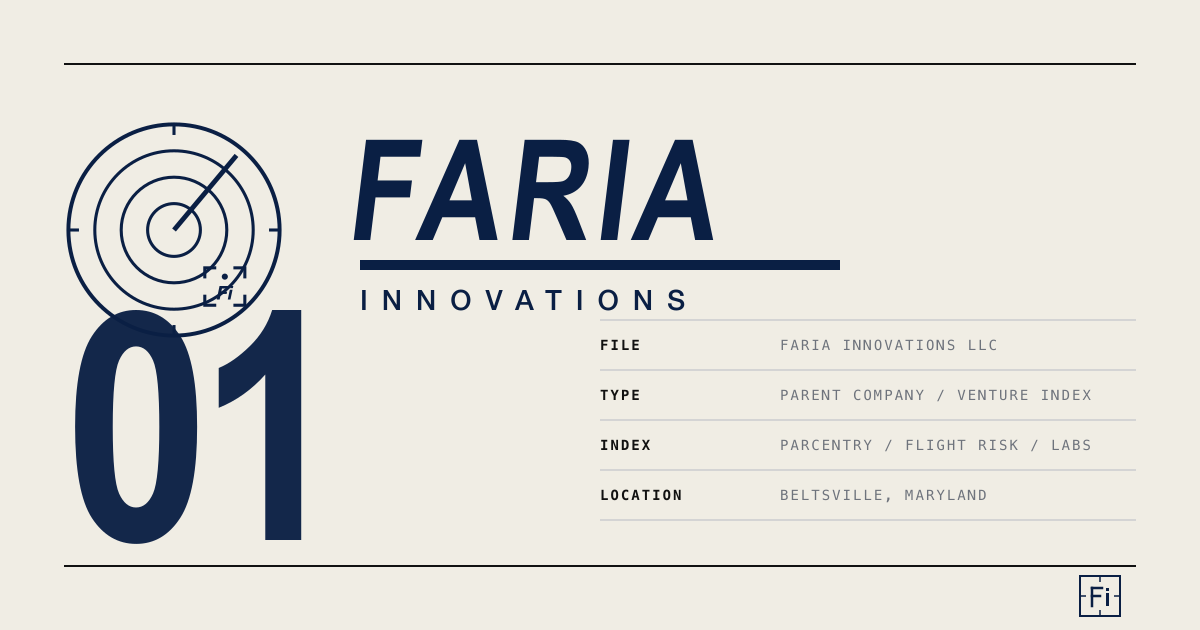
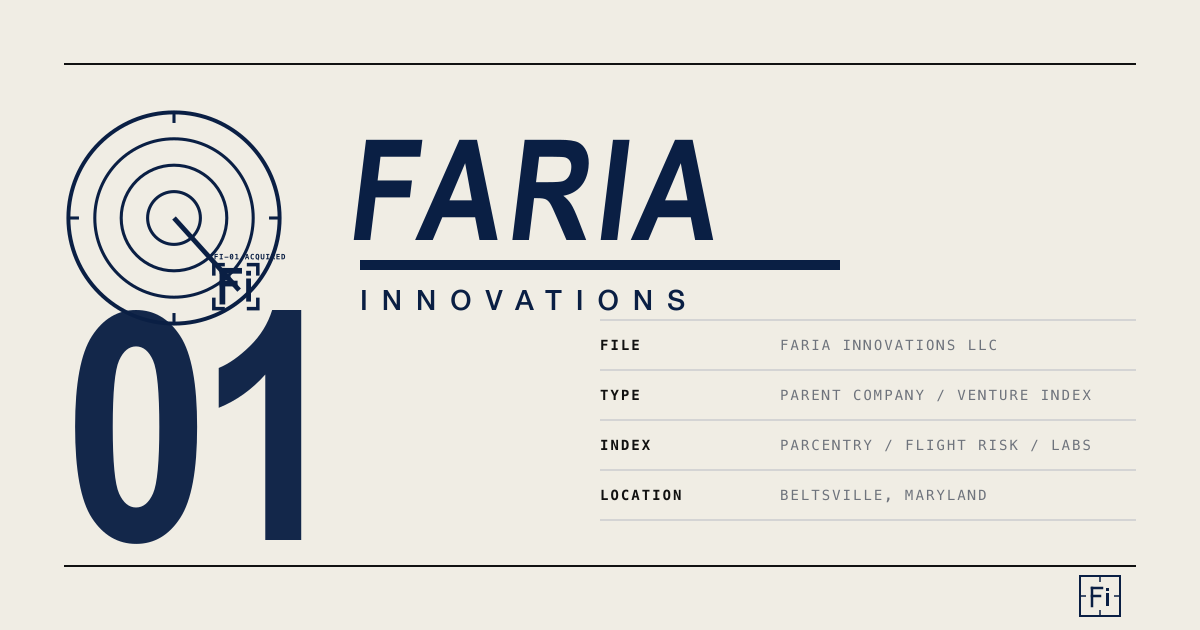
radar fi legibility fix: detected target with readable path-based fi glyph in lockbox + fi-01 acquired annotation, sweep re-aimed, system version 3.0

Changed region(s): [[0.0308, 0.1508, 0.2467, 0.5429]]

diff --git a/src/styles/global.css b/src/styles/global.css
@@ -136,8 +136,8 @@ a:hover { color: var(--navy); }
 }
 .header-lockup:hover { color: var(--ink); }
 .header-lockup .radar-mark {
-  width: 44px;
-  height: 44px;
+  width: 48px;
+  height: 48px;
   flex-shrink: 0;
 }
 .header-lockup .header-wordmark {
@@ -146,7 +146,7 @@ a:hover { color: var(--navy); }
 }
 @media (max-width: 480px) {
   .header-lockup .header-wordmark { width: 124px; }
-  .header-lockup .radar-mark { width: 38px; height: 38px; }
+  .header-lockup .radar-mark { width: 40px; height: 40px; }
 }
 
 .site-nav {
